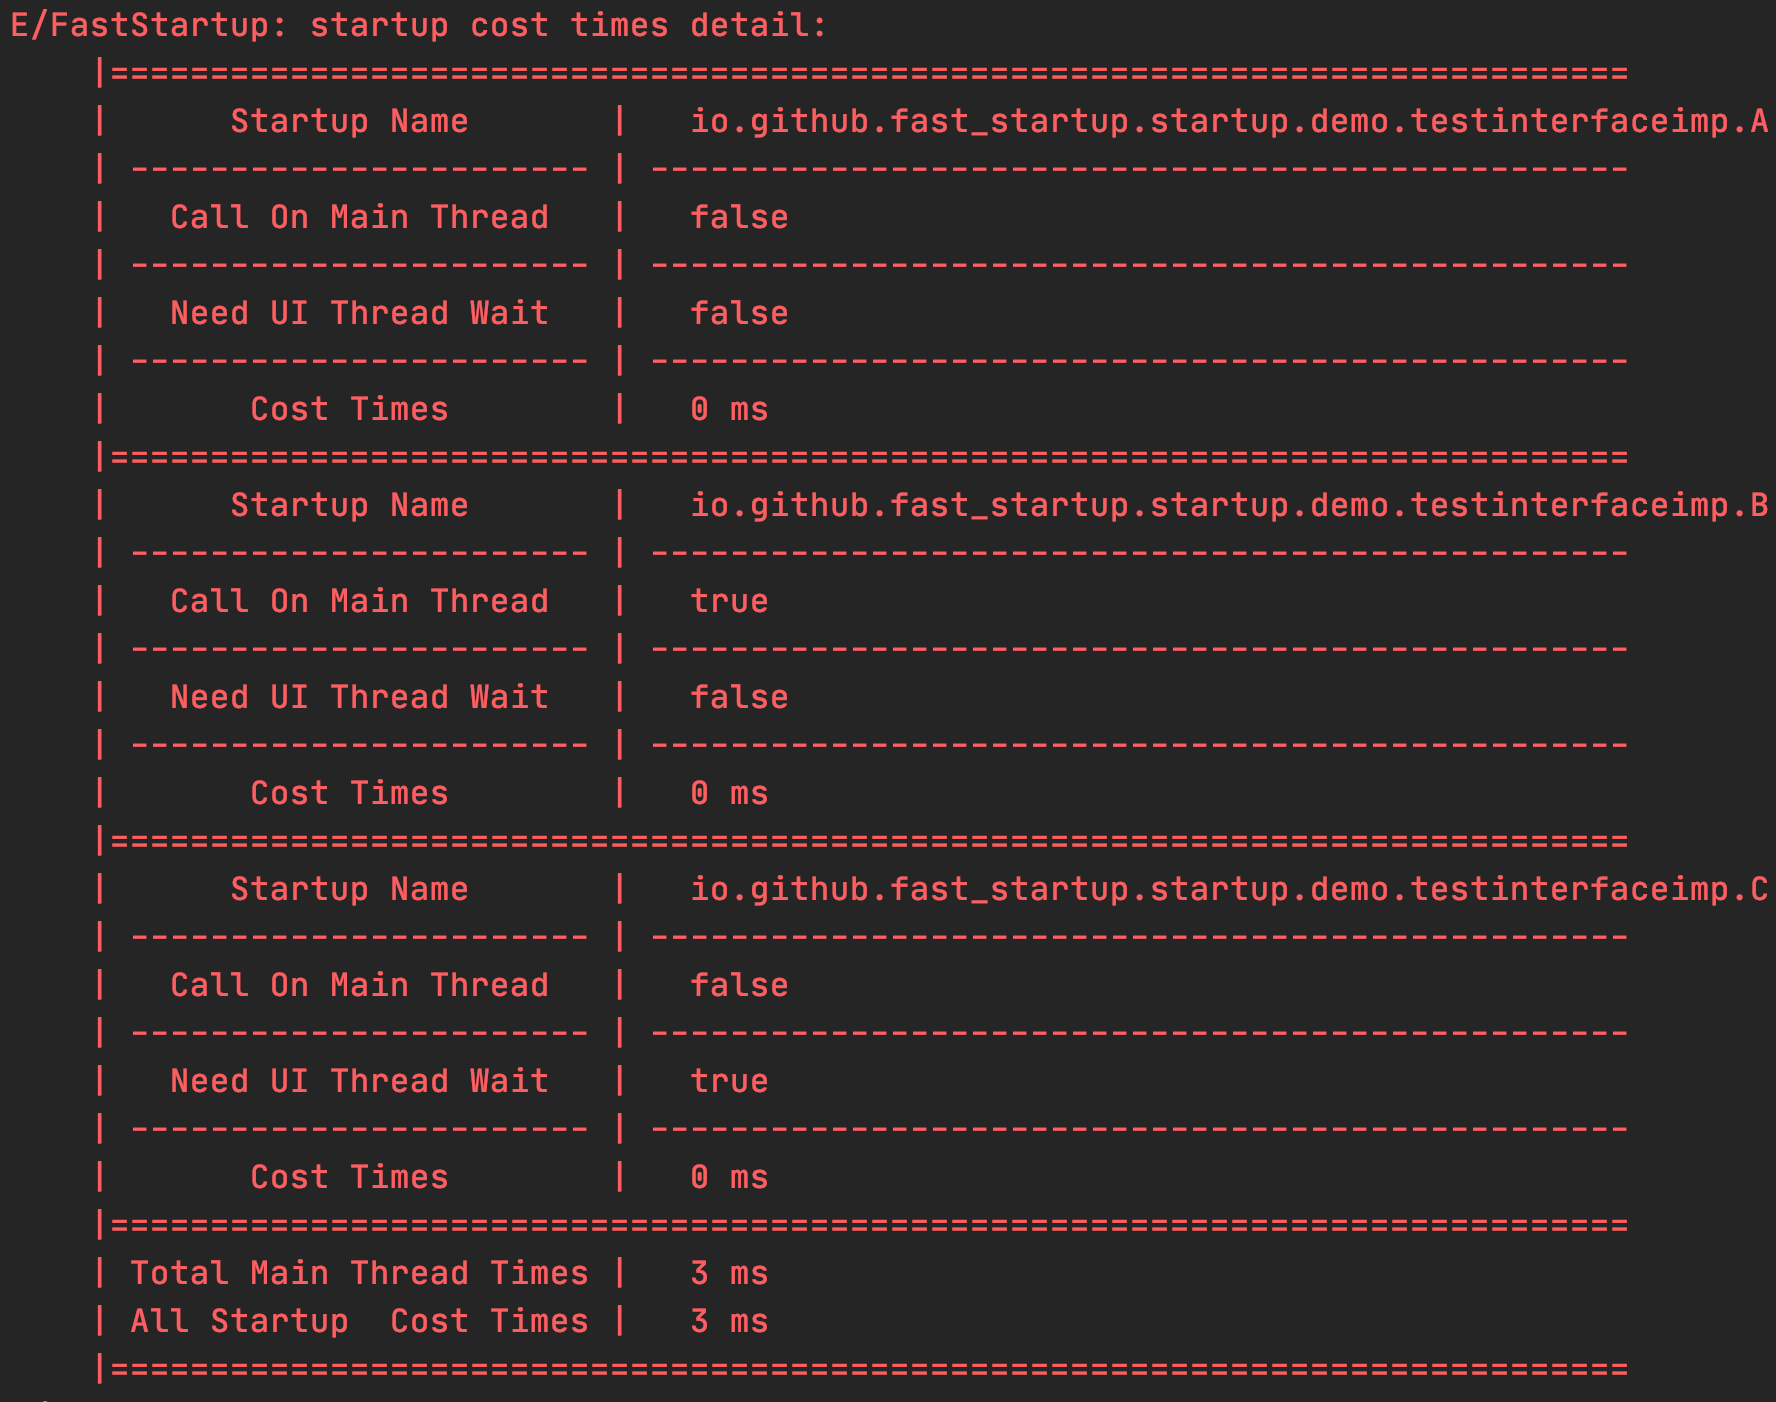
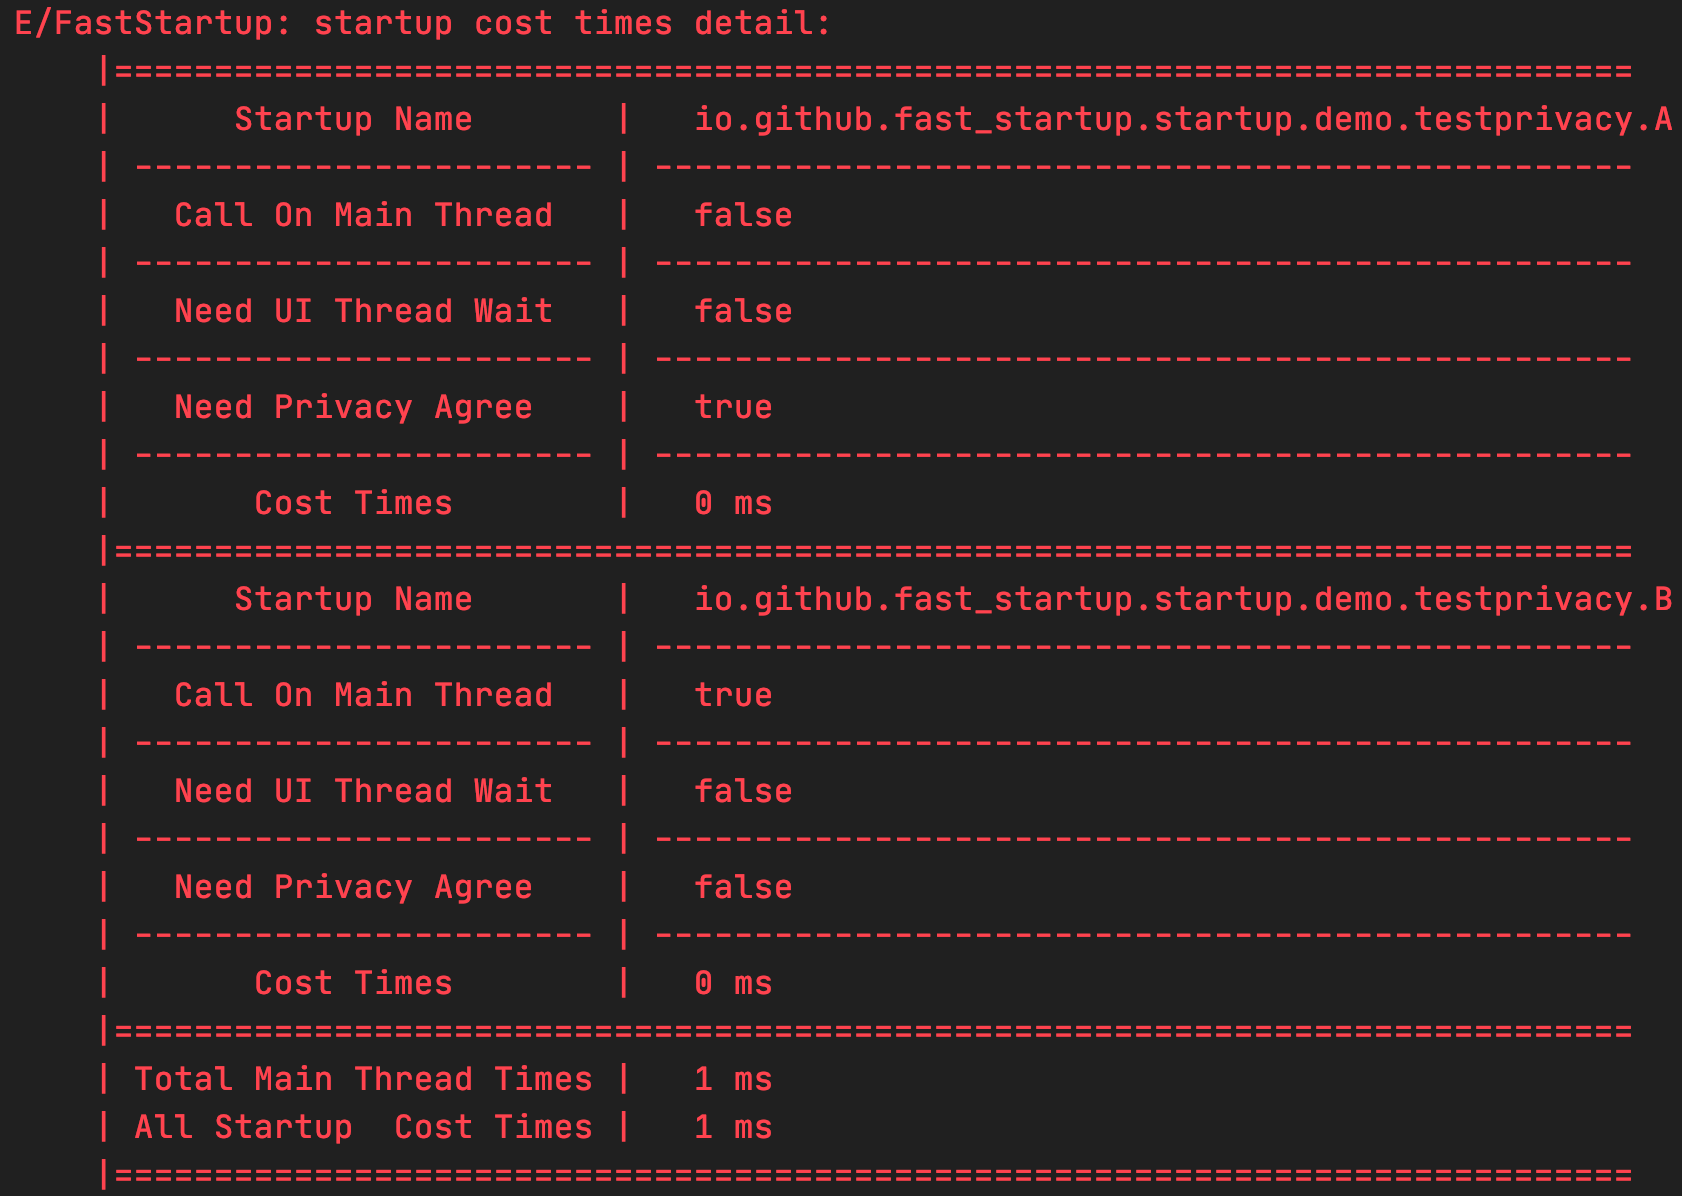
增加隐私模式

diff --git a/app/src/main/java/io/github/fast_startup/startup/demo/testprivacy/TestPrivacy.kt b/app/src/main/java/io/github/fast_startup/startup/demo/testprivacy/TestPrivacy.kt
@@ -19,7 +19,7 @@ import io.github.fast_startup.startup.demo.TestBase
 class TestPrivacy : TestBase {
     override fun test() {
         val startups = mutableListOf<IStartup<*>>()
-        startups.add(C())
+        //startups.add(C())
         startups.add(A())
         startups.add(B())
         startups.add(D())
@@ -31,18 +31,18 @@ class TestPrivacy : TestBase {
                 .setLogLevel(Log.DEBUG)
                 .setIsPrintDependencies(true)
                 .build()
-        ).registerAllStartupCompleteListener(object : AllStartupCompleteListener{
+        ).registerAllStartupCompleteListener(object : AllStartupCompleteListener {
             override fun startupComplete() {
                 SLog.e("registerAllStartupCompleteListener")
                 //FastStartup.setPrivacyAgree(true)
                 //FastStartup.reStart()
             }
-        }).registerUIStartupCompleteListener(object : UIStartupCompleteListener{
+        }).registerUIStartupCompleteListener(object : UIStartupCompleteListener {
             override fun startupComplete() {
                 SLog.e("registerUIStartupCompleteListener")
 
             }
-        }).registerStartupCompleteListener(object : StartupCompleteListener{
+        }).registerStartupCompleteListener(object : StartupCompleteListener {
             override fun startupComplete(startup: IStartup<*>) {
                 SLog.e("registerStartupCompleteListener:${startup.javaClass.simpleName}")
             }
@@ -54,7 +54,7 @@ class TestPrivacy : TestBase {
 
 class A : IStartup<String> {
     override fun start(context: Context?, isDebug: Boolean?, any: Any?): String? {
-        SLog.e("A()")
+        //SLog.e("A()")
         return null
     }
 
@@ -65,7 +65,7 @@ class A : IStartup<String> {
 
 class B : IStartup<String> {
     override fun start(context: Context?, isDebug: Boolean?, any: Any?): String? {
-        SLog.e("B()")
+        //SLog.e("B()")
 
         return null
     }
@@ -97,7 +97,7 @@ class C : IStartup<String> {
 
 class D : IStartup<String> {
     override fun start(context: Context?, isDebug: Boolean?, any: Any?): String? {
-        SLog.e("D()")
+        //SLog.e("D()")
 
         return null
     }
@@ -105,20 +105,21 @@ class D : IStartup<String> {
     override fun dependencies(): List<Class<out IStartup<*>>>? {
         return null
     }
+
     override fun runOnUIThread(): Boolean {
-        return true
+        return false
     }
 }
 
 class E : IStartup<String> {
     override fun start(context: Context?, isDebug: Boolean?, any: Any?): String? {
-        SLog.e("E()")
+        //SLog.e("E()")
 
         return null
     }
 
     override fun runOnUIThread(): Boolean {
-        return true
+        return false
     }
 
     override fun dependencies(): List<Class<out IStartup<*>>>? {

diff --git a/fast-startup/src/main/java/io/github/fast_startup/utils/DependenciesListCheckUtil.kt b/fast-startup/src/main/java/io/github/fast_startup/utils/DependenciesListCheckUtil.kt
@@ -25,8 +25,7 @@ internal class DependenciesListCheckUtil {
         ) {
             // 下面开始进行环检测和依赖丢失情况的检测
             if (startupConfig?.isDebug == true) {
-                val orderList =
-                    dependenciesListCheck(startupList, startupInfoStore.startupInterfaceMap)
+                val orderList = dependenciesListCheck(startupList)
                 DependenciesListPrintUtil.printDependenciesList(
                     orderList,
                     startupConfig,
@@ -34,8 +33,7 @@ internal class DependenciesListCheckUtil {
                 )
             } else {
                 ExecutorManager.instance.execute {
-                    val orderList =
-                        dependenciesListCheck(startupList, startupInfoStore.startupInterfaceMap)
+                    val orderList = dependenciesListCheck(startupList)
                     DependenciesListPrintUtil.printDependenciesList(
                         orderList,
                         startupConfig,
@@ -48,10 +46,19 @@ internal class DependenciesListCheckUtil {
         @JvmStatic
         private fun dependenciesListCheck(
             startupList: List<IStartup<*>>,
-            startupInterfaceMap: MutableMap<Class<*>, Class<out IStartup<*>>>,
         ): ArrayDeque<String> {
             val startupMap: HashMap<String, IStartup<*>> = HashMap(startupList.size)
             val startupChildrenMap: HashMap<String, MutableSet<String>> = HashMap()
+            val startupInterfaceMap = mutableMapOf<Class<*>, Class<out IStartup<*>>>()
+
+            // 构建startupInterfaceMap依赖关系表
+            startupList.forEach { startup ->
+                startup::class.java.interfaces.forEach {
+                    if (it.interfaces.contains(IStartup::class.java)) {
+                        startupInterfaceMap[it] = startup.javaClass
+                    }
+                }
+            }
 
             val zeroDequeTmp = ArrayDeque<String>()
             startupList.forEach {

diff --git a/app/src/main/java/io/github/fast_startup/startup/demo/App.kt b/app/src/main/java/io/github/fast_startup/startup/demo/App.kt
@@ -76,25 +76,25 @@ class App : Application() {
         ).start()*/
 
         // 测试环
-        TestTask.addTask(TestCircle())
+        //TestTask.addTask(TestCircle())
 //
 //        //测试依缺失
-        TestTask.addTask(TestMissing())
+        //TestTask.addTask(TestMissing())
 //
 //        //测试依赖接口方式
-        TestTask.addTask(TestInterfaceImp())
+        //TestTask.addTask(TestInterfaceImp())
 //
 //        //测试多次添加
-        TestTask.addTask(TestMultiAdd())
+        //TestTask.addTask(TestMultiAdd())
 
-        //测试主线程需要等待子线程完成
-        TestTask.addTask(TestWaitMainThread())
+        //TestTask.addTask(TestGetResult())
 
-        TestTask.addTask(TestGetResult())
-
-        TestTask.addTask(TestAop())
+        //TestTask.addTask(TestAop())
 
         TestTask.addTask(TestPrivacy())
+
+        //测试主线程需要等待子线程完成
+        //TestTask.addTask(TestWaitMainThread())
 
         TestTask.startNext()
 

diff --git a/fast-startup/src/main/java/io/github/fast_startup/sort/SortUtil.kt b/fast-startup/src/main/java/io/github/fast_startup/sort/SortUtil.kt
@@ -130,7 +130,7 @@ internal object SortUtil {
         startupList.forEach {
             val uniqueKey = it::class.java.getUniqueKey()
             if (startupMap.containsKey(uniqueKey)) {
-                throw StartupException("$uniqueKey ${StartupExceptionMsg.MULTI_ADD}")
+                throw StartupException("[$uniqueKey] ${StartupExceptionMsg.MULTI_ADD}")
             }
             // 保存所有startup
             startupMap[uniqueKey] = it
@@ -138,7 +138,7 @@ internal object SortUtil {
             val realDepList: MutableList<String> = mutableListOf()
             it.dependencies()?.forEach { dep ->
                 if (dep.isInterface) {
-                    realDepList.add(startupInterfaceMap[dep]!!.getUniqueKey())
+                    startupInterfaceMap[dep]?.let { it1 -> realDepList.add(it1.getUniqueKey()) }
                 } else {
                     realDepList.add(dep.getUniqueKey())
                 }

diff --git a/fast-startup/src/main/java/io/github/fast_startup/FastStartup.kt b/fast-startup/src/main/java/io/github/fast_startup/FastStartup.kt
@@ -199,7 +199,10 @@ object FastStartup {
      */
     fun reStart() {
         if (isPrivacyAgree != true || startupInfoStore?.privacyCheckFailStartupList?.size == 0) {
-            SLog.e("隐私未同意或者没有需要隐私权限的Startup")
+            SLog.i(
+                "隐私同意状态：${isPrivacyAgree} \n " +
+                        "需要隐私权限的Startup数量：${startupInfoStore?.privacyCheckFailStartupList?.size ?: 0}"
+            )
             return
         }
         // 初始化检测

diff --git a/README.md b/README.md
@@ -1,5 +1,6 @@
 # FastStartup
-`FastStartup`是一个组件启动框架，旨在帮助开发人员能够简单、高效地进行各种组件的初始化操作。
+`FastStartup`是一个组件启动框架，旨在帮助开发人员能够简单、高效地进行各种组件的初始化操作。  
+[【更新记录】](https://github.com/WizzXu/FastStartup/blob/main/CHANGE_LOG.md)
 
 ## 特点
 简单、高效、支持解藕。
@@ -25,7 +26,8 @@
 在项目工程目录下`build.gradle`中添加依赖
 ```
 dependencies {
-    implementation "io.github.wizzxu:fast-startup:0.0.1"
+    //请使用最新版本
+    implementation "io.github.wizzxu:fast-startup:0.0.2"
 }
 ```
 ### 2. 组件初始化
@@ -110,13 +112,16 @@ Log.d("TestGetResult", "${FastStartup.getStartupResult(IA::class.java)}")
 ## 依赖环检测和缺失检测
 在FastStartup启动的时候会自动进行依赖环检测和缺失检测
 如果依赖有环，会抛出异常并会打印如下信息
-![dep_pic_1](https://github.com/WizzXu/FastStartup/blob/main/pic/dep_pic_1.png?raw=true)
+![dep_pic_1](https://raw.githubusercontent.com/WizzXu/FastStartup/main/pic/dep_pic_1.png)
 
 如果依赖有缺失，会打印如下消息
-![dep_pic_2](https://github.com/WizzXu/FastStartup/blob/main/pic/dep_pic_2.png?raw=true)
+![dep_pic_2](https://raw.githubusercontent.com/WizzXu/FastStartup/main/pic/dep_pic_2.png)
 
 ## 耗时统计
-![cost_time](https://github.com/WizzXu/FastStartup/blob/main/pic/cost_time.png?raw=true)
+![cost_time](https://raw.githubusercontent.com/WizzXu/FastStartup/main/pic/cost_time.png)
+
+## 依赖关系打印
+![dep_list_pic](https://raw.githubusercontent.com/WizzXu/FastStartup/main/pic/dep_list_pic.png)
 
 
 # FastStartup 高级用法 解藕、AOP、隐私模式
@@ -126,7 +131,8 @@ Log.d("TestGetResult", "${FastStartup.getStartupResult(IA::class.java)}")
 #### 1. 组件工程添加`IStartup`组件依赖
 ```
 dependencies {
-    implementation "io.github.wizzxu:fast-startup-api:0.0.1"
+    //请使用最新版本
+    implementation "io.github.wizzxu:fast-startup-api:0.0.2"
 }
 ```
 组件接口必须直接继承`IStartup`
@@ -167,7 +173,7 @@ AOP方案的实现基于[Booster](https://github.com/didi/booster)实现
 buildscript {
     ext.kotlin_version = "1.5.31"
     ext.booster_version = '4.0.0'
-    ext.fast_startup_transformer = '0.0.1'
+    ext.fast_startup_transformer = '0.0.1'//请使用最新版本
 
     dependencies {
         // 添加booster插件

diff --git a/CHANGE_LOG.md b/CHANGE_LOG.md
@@ -1,0 +1,16 @@
+# 更新记录
+
+| 组件 | 最新版本 |
+| --- | --- |
+| io.github.wizzxu:fast-startup |0.0.2 |
+| io.github.wizzxu:fast-startup-api |0.0.2 |
+| io.github.wizzxu:fast-startup-transformer |0.0.1 |
+
+# fast-startup
+### 0.0.2
+新增隐私初始化支持
+新增依赖关系打印
+
+# fast-startup-api
+### 0.0.2
+新增隐私初始化支持
